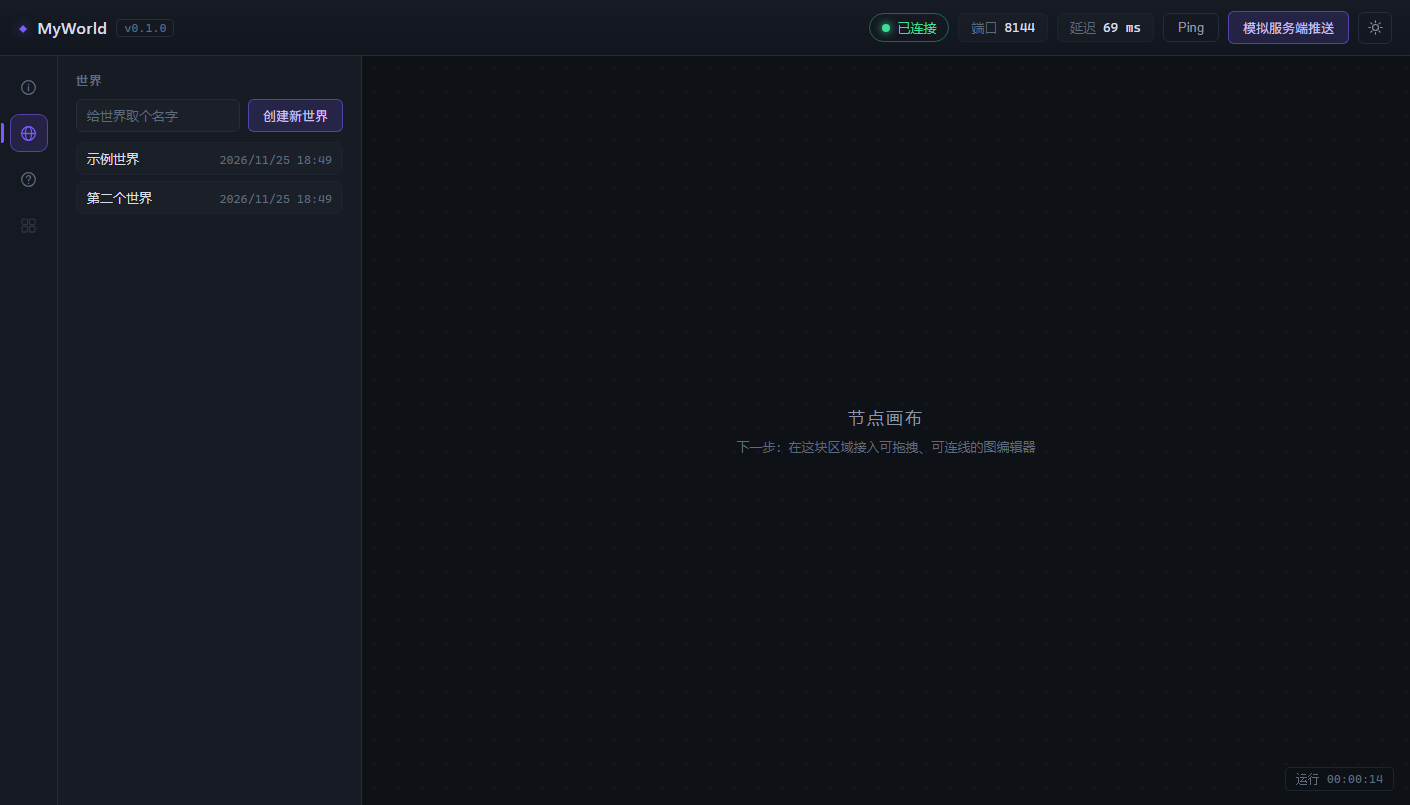
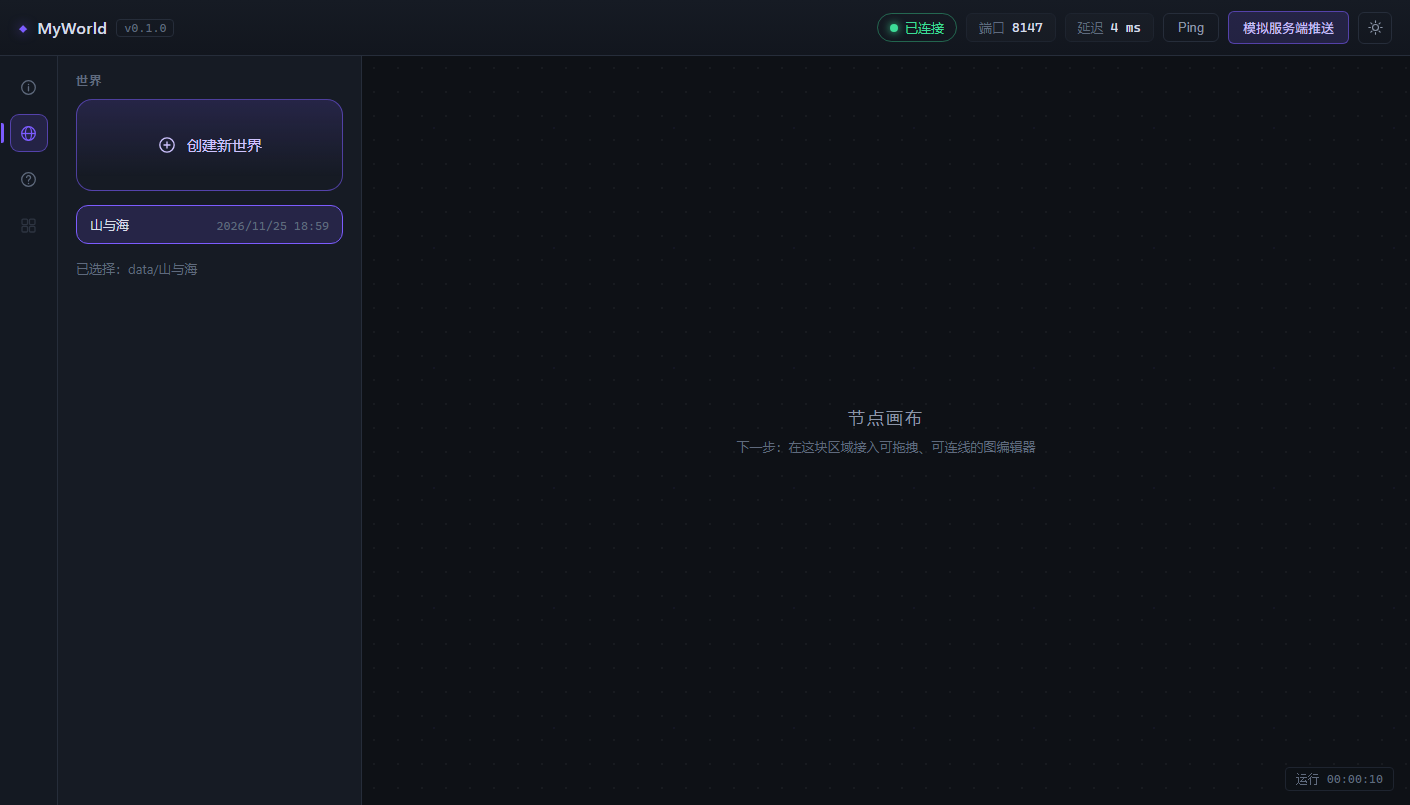
style: 「世界」面板改成大圆角卡片风格
- 平时只显示一张 16px 圆角、92px 高的「＋ 创建新世界」卡片，
  点击后卡片收起、展开输入表单（创建/取消，Esc 收起）
- 世界列表项改成 12px 圆角卡片，hover 轻微上浮
- 新增 --radius-lg / --radius-md / --radius-sm 三个圆角变量，后续统一调整
- 修复：组件自己声明 display:flex 会压过 hidden 属性，加 [hidden]{display:none!important}
- 截图与 README 同步更新

Changed region(s): [[0.0312, 0.1242, 0.2496, 0.3416], [0.6241, 0.0, 0.7801, 0.0621]]

diff --git a/web/css/style.css b/web/css/style.css
@@ -86,10 +86,18 @@
   --topbar-h: 56px;
   --panel-w: 304px;
   --rail-w: 58px;
+  --radius-lg: 16px;
+  --radius-md: 12px;
+  --radius-sm: 6px;
 }
 
 * {
   box-sizing: border-box;
+}
+
+/* hidden 属性必须压过组件自己的 display 声明（否则 flex 布局的元素藏不住） */
+[hidden] {
+  display: none !important;
 }
 
 html,
@@ -443,11 +451,55 @@ body {
 }
 
 /* ---------- 世界面板 ---------- */
-.world-create {
-  display: grid;
-  grid-template-columns: minmax(0, 1fr) auto;
+/* 平时只是一张大圆角卡片，点开才出现输入框 */
+.world-create-card {
+  display: flex;
+  align-items: center;
+  justify-content: center;
+  gap: 10px;
+  width: 100%;
+  min-height: 92px;
+  margin-bottom: 14px;
+  padding: 18px;
+  border: 1px solid var(--btn-border);
+  border-radius: var(--radius-lg);
+  background: linear-gradient(180deg, var(--accent-soft), transparent 85%);
+  color: var(--btn-text);
+  font-family: inherit;
+  font-size: var(--fs-base);
+  cursor: pointer;
+  transition: border-color 0.15s, background 0.15s, transform 0.1s;
+}
+
+.world-create-card:hover {
+  border-color: var(--accent);
+  background: linear-gradient(180deg, var(--btn-bg-hover), transparent 85%);
+}
+
+.world-create-card:active {
+  transform: translateY(1px);
+}
+
+.world-create-card .plus {
+  flex: none;
+  width: 20px;
+  height: 20px;
+}
+
+.world-form {
+  display: flex;
+  flex-direction: column;
+  gap: 10px;
+  margin-bottom: 14px;
+  padding: 14px;
+  border: 1px solid var(--accent);
+  border-radius: var(--radius-lg);
+  background: var(--panel);
+}
+
+.world-form-actions {
+  display: flex;
   gap: 8px;
-  margin-bottom: 10px;
 }
 
 .input {
@@ -493,17 +545,18 @@ body {
   align-items: baseline;
   justify-content: space-between;
   gap: 10px;
-  padding: 7px 10px;
+  padding: 10px 13px;
   border: 1px solid var(--border-soft);
-  border-radius: 7px;
+  border-radius: var(--radius-md);
   background: var(--chip-bg);
   cursor: pointer;
-  transition: border-color 0.15s, background 0.15s;
+  transition: border-color 0.15s, background 0.15s, transform 0.1s;
 }
 
 .world-item:hover {
   border-color: var(--text-faint);
   background: var(--ghost-hover-bg);
+  transform: translateY(-1px);
 }
 
 .world-item.is-selected {

diff --git a/web/js/app.js b/web/js/app.js
@@ -19,7 +19,10 @@
     btnTick: $("btnTick"),
     btnTheme: $("btnTheme"),
     worldName: $("worldName"),
+    worldForm: $("worldForm"),
     btnCreateWorld: $("btnCreateWorld"),
+    btnSubmitWorld: $("btnSubmitWorld"),
+    btnCancelWorld: $("btnCancelWorld"),
     worldError: $("worldError"),
     worldList: $("worldList"),
     worldEmpty: $("worldEmpty"),
@@ -172,6 +175,21 @@
     debug("选择世界", item);
   }
 
+  function openWorldForm() {
+    el.btnCreateWorld.hidden = true;
+    el.worldForm.hidden = false;
+    clearWorldError();
+    el.worldName.value = "";
+    el.worldName.focus();
+  }
+
+  function closeWorldForm() {
+    el.worldForm.hidden = true;
+    el.btnCreateWorld.hidden = false;
+    el.worldName.value = "";
+    clearWorldError();
+  }
+
   async function createWorld() {
     const name = el.worldName.value.trim();
     if (!name) {
@@ -180,15 +198,14 @@
       return;
     }
 
-    el.btnCreateWorld.disabled = true;
+    el.btnSubmitWorld.disabled = true;
     try {
       const created = await fetchJSON("/api/worlds", {
         method: "POST",
         headers: { "Content-Type": "application/json" },
         body: JSON.stringify({ name }),
       });
-      el.worldName.value = "";
-      clearWorldError();
+      closeWorldForm();
       selectedWorld = created.name;
       await loadWorlds();
       const node = el.worldList.querySelector(`[data-name="${CSS.escape(created.name)}"]`);
@@ -196,7 +213,7 @@
     } catch (err) {
       showWorldError(err.message);
     } finally {
-      el.btnCreateWorld.disabled = false;
+      el.btnSubmitWorld.disabled = false;
     }
   }
 
@@ -435,9 +452,14 @@
 
   initTheme();
   initRail();
-  el.btnCreateWorld.addEventListener("click", createWorld);
+  el.btnCreateWorld.addEventListener("click", openWorldForm);
+  el.btnCancelWorld.addEventListener("click", closeWorldForm);
+  el.worldForm.addEventListener("submit", (event) => {
+    event.preventDefault();
+    createWorld();
+  });
   el.worldName.addEventListener("keydown", (event) => {
-    if (event.key === "Enter") createWorld();
+    if (event.key === "Escape") closeWorldForm();
   });
   refreshStatus();
   loadConfig();

diff --git a/web/index.html b/web/index.html
@@ -99,15 +99,28 @@
 
       <section class="pane" data-pane="world" hidden>
         <h2>世界</h2>
-        <div class="world-create">
+
+        <button class="world-create-card" id="btnCreateWorld" type="button">
+          <svg class="plus" viewBox="0 0 24 24" aria-hidden="true">
+            <circle cx="12" cy="12" r="8.6" fill="none" stroke="currentColor" stroke-width="1.6" />
+            <path d="M12 8.4v7.2M8.4 12h7.2" stroke="currentColor" stroke-width="1.6" stroke-linecap="round" />
+          </svg>
+          <span>创建新世界</span>
+        </button>
+
+        <form class="world-form" id="worldForm" hidden>
           <input class="input" id="worldName" type="text" placeholder="给世界取个名字" maxlength="64"
                  autocomplete="off" spellcheck="false" aria-label="世界名字" />
-          <button class="btn" id="btnCreateWorld">创建新世界</button>
-        </div>
+          <div class="world-form-actions">
+            <button class="btn" type="submit" id="btnSubmitWorld">创建</button>
+            <button class="btn ghost" type="button" id="btnCancelWorld">取消</button>
+          </div>
+        </form>
+
         <p class="form-error" id="worldError" hidden></p>
         <ul class="world-list" id="worldList"></ul>
         <p class="hint" id="worldEmpty" hidden>
-          还没有世界。取个名字点「创建新世界」，它会在 <code>data/</code> 下变成一个目录。
+          还没有世界。点上面的卡片建一个，它会在 <code>data/</code> 下变成一个目录。
         </p>
         <p class="hint" id="worldSelected" hidden></p>
       </section>

diff --git a/README.md b/README.md
@@ -94,7 +94,7 @@ data/
     world.json
 ```
 
-在左侧功能区点「世界」，输入名字后按「创建新世界」即可；也可以直接调 API。创建后会立刻出现在列表里，点一下选中。
+在左侧功能区点「世界」，点那张圆角卡片，输入名字后按「创建」即可；也可以直接调 API。新建的世界会立刻出现在下方列表里，点一下选中。
 
 ![世界面板](docs/screenshot-world.png)
 
